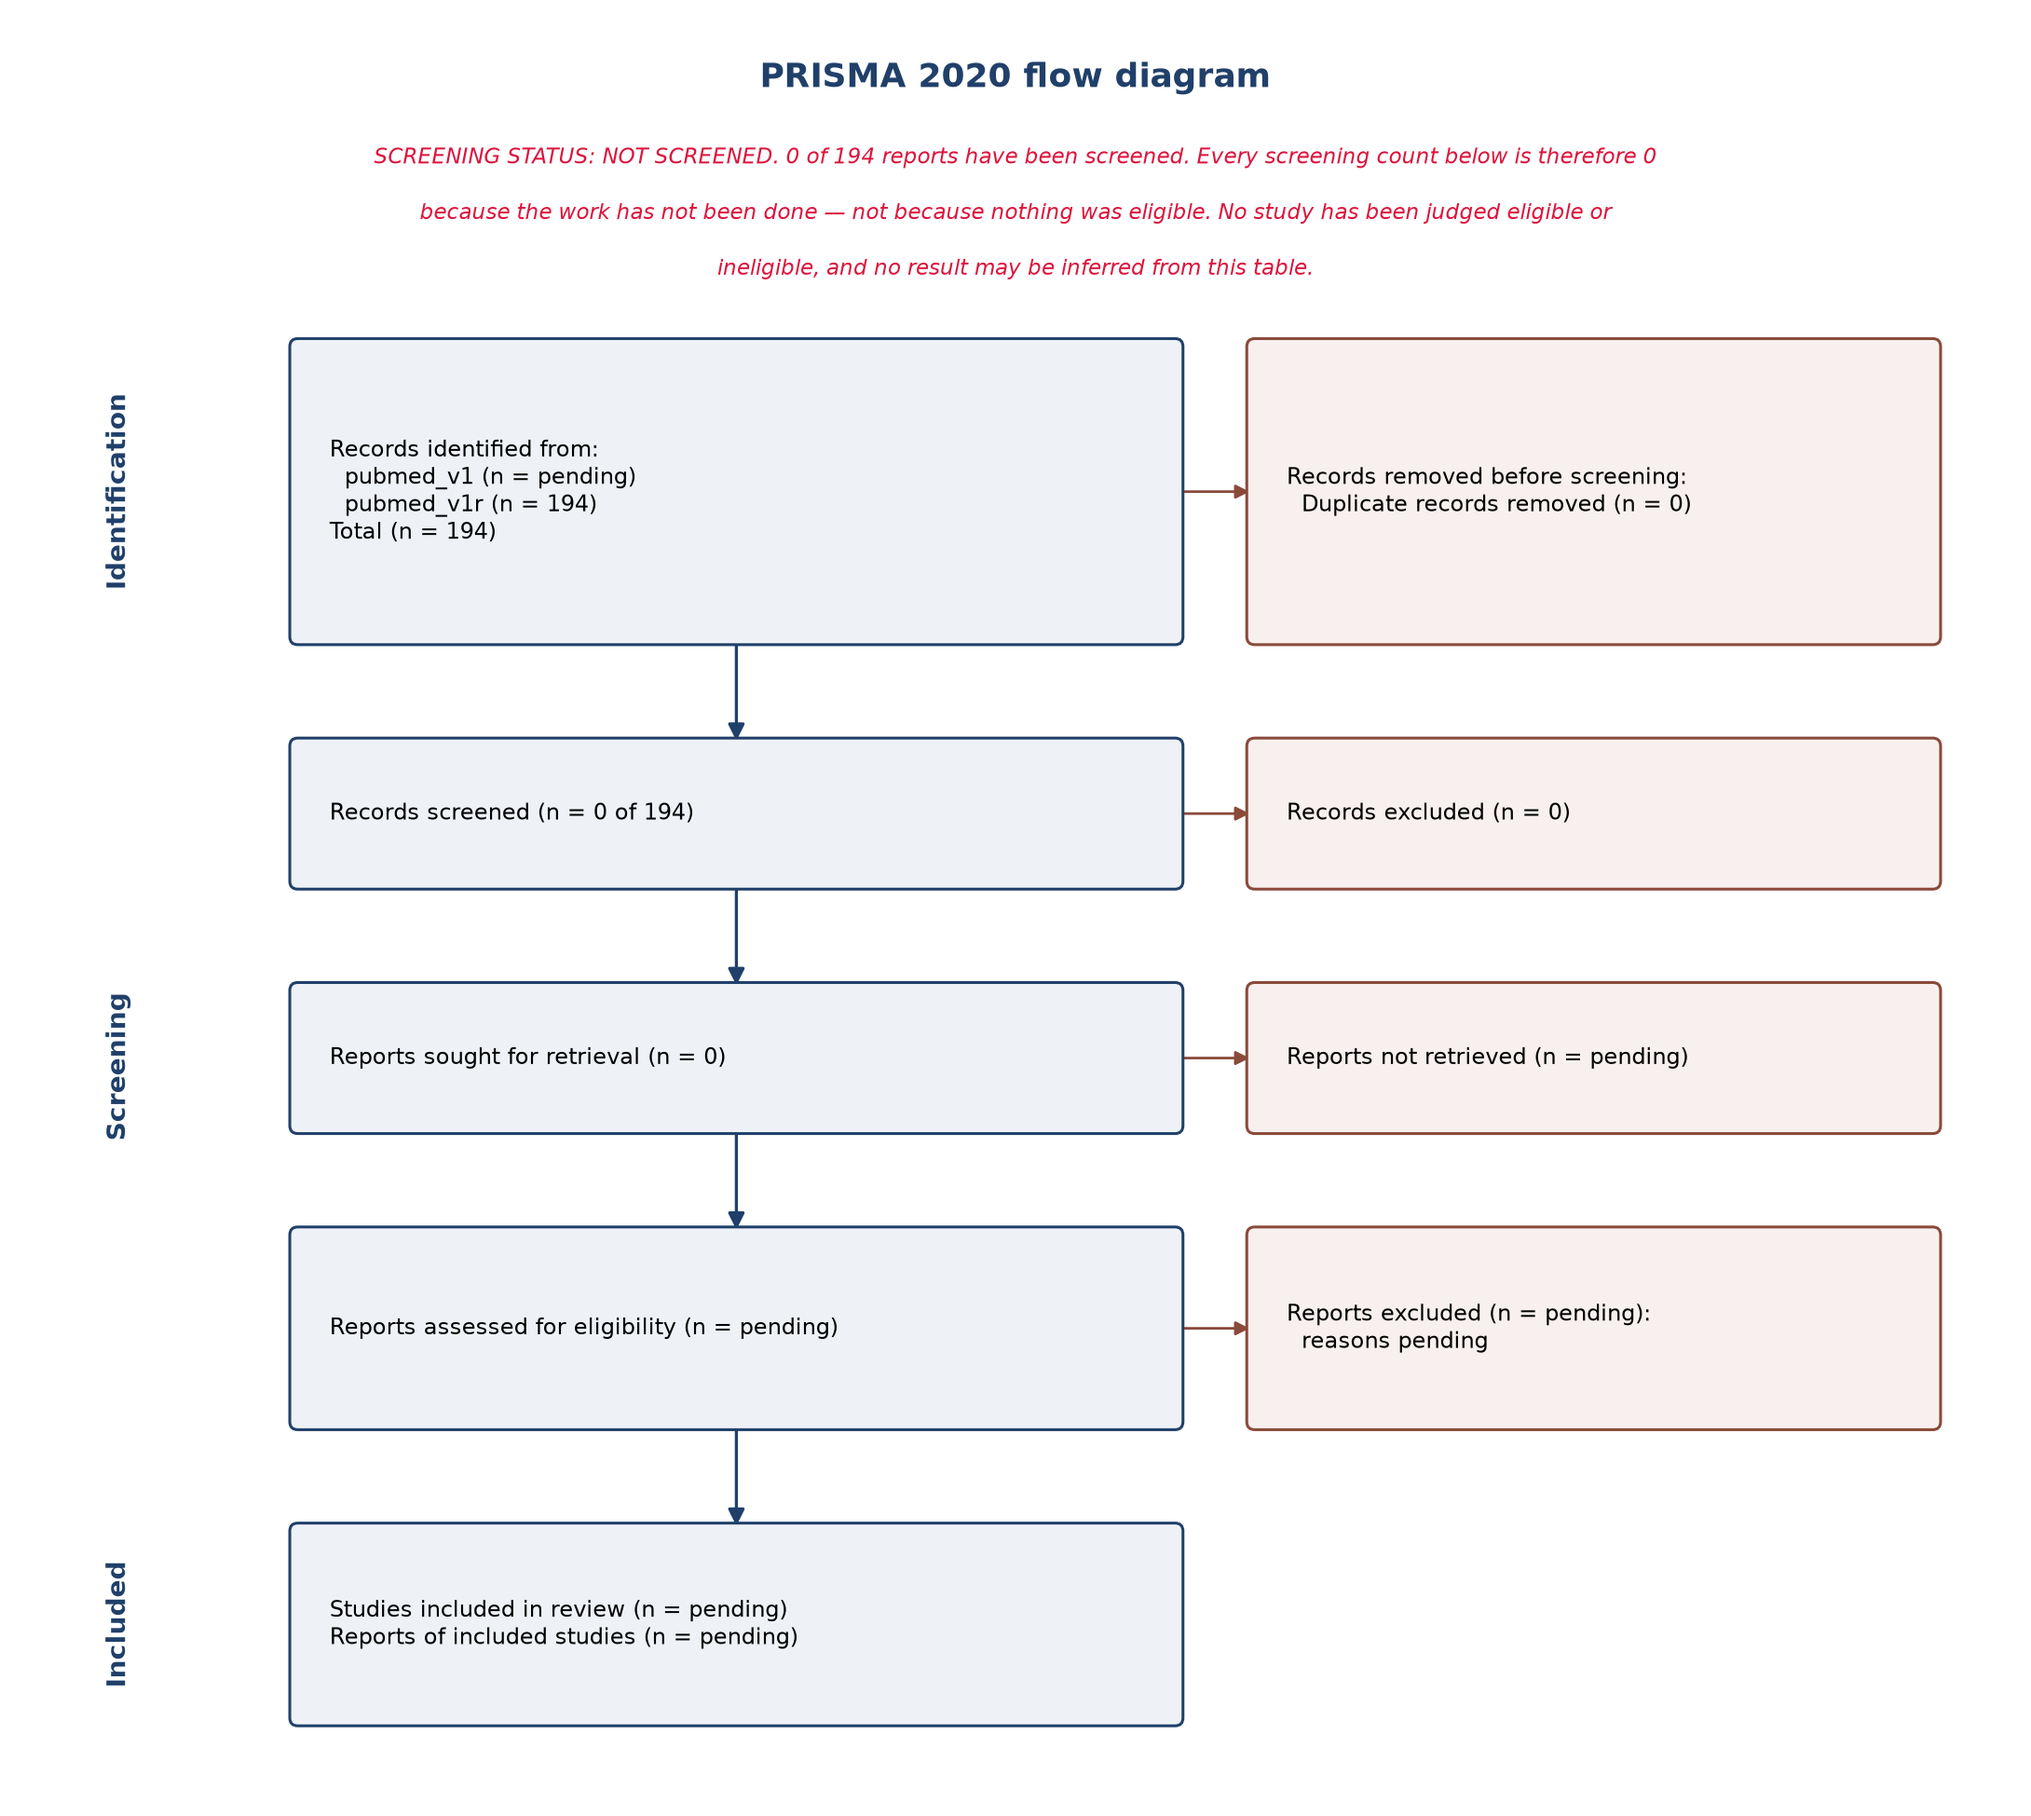
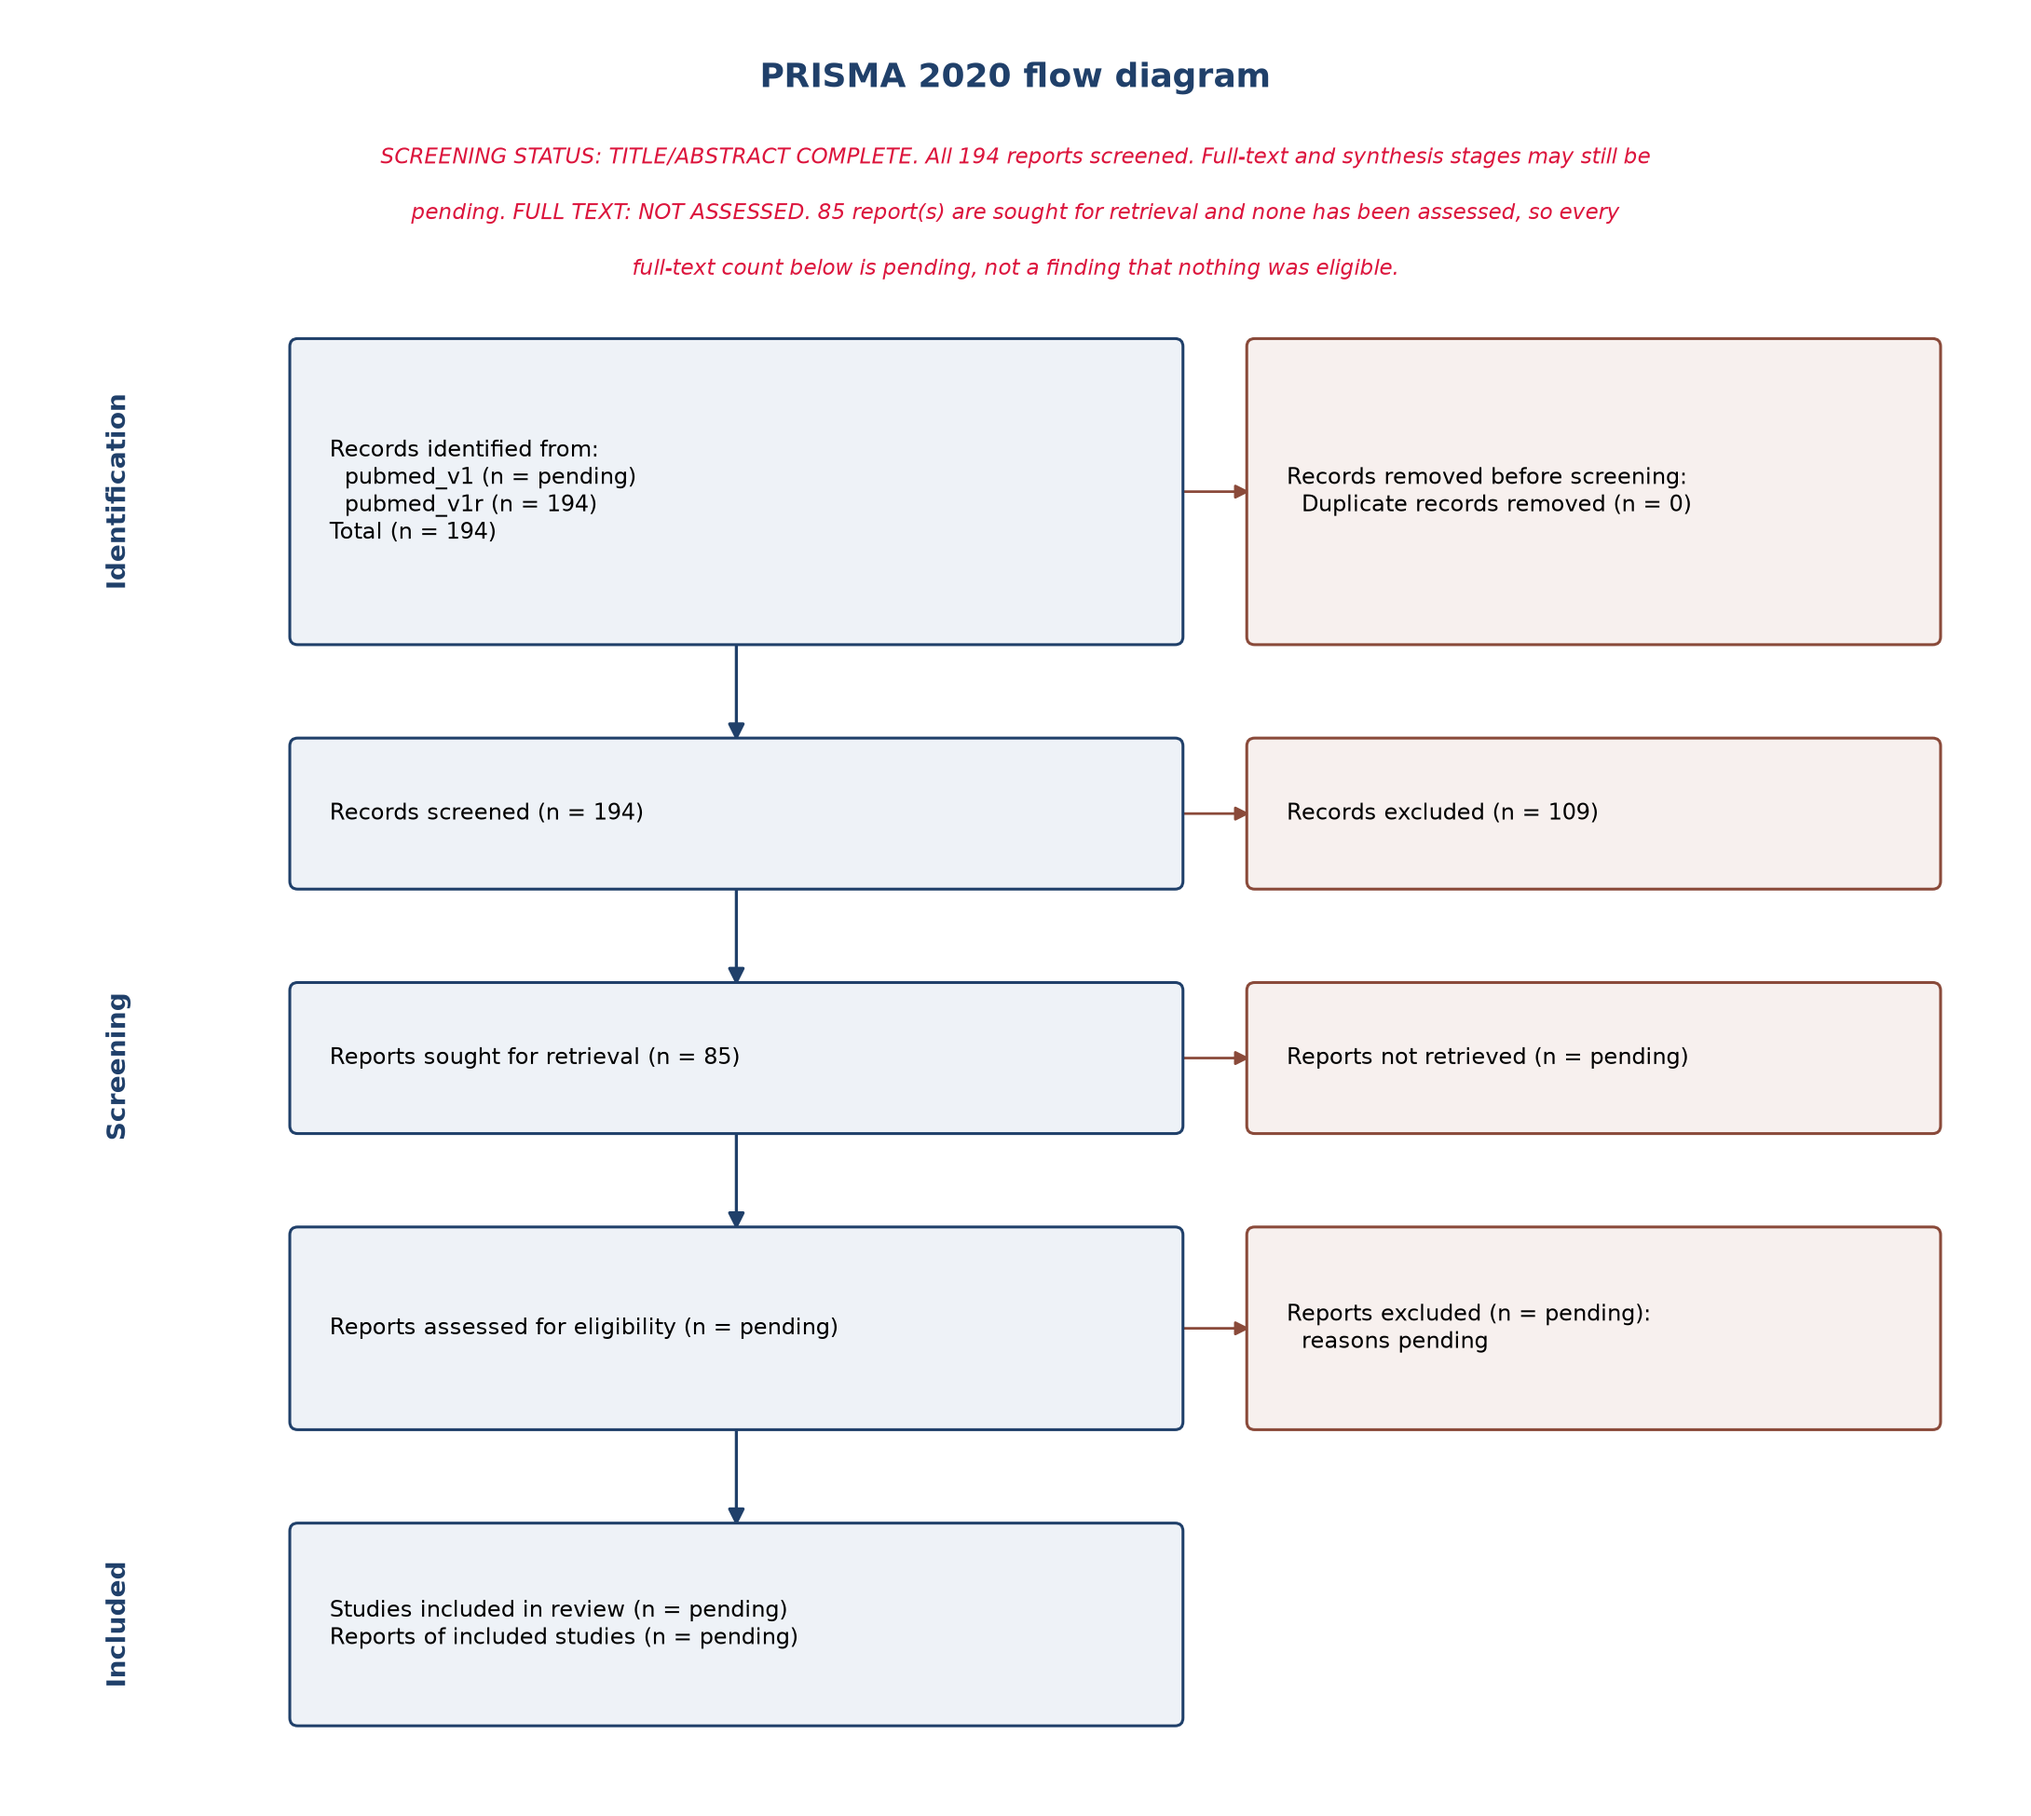
Build the full-text worksheet from the 85 title/abstract includes
data/screening/screening_ft.csv carries one row per report taken forward,
with every reviewer field empty: full_text_status, full_text_source,
decision, reason_code, reviewer, screened_date and notes. Provenance was
re-verified before the build and the raw checksum gate passed. The file is
tracked, like the title/abstract worksheet, because retrieval statuses and
eligibility decisions cannot be regenerated from anything.

validate_screening --stage ft reports 0 errors and the status INCOMPLETE,
with the single warning that 85 of 85 reports are not yet screened.

The regenerated PRISMA counts and figure now read "reports sought for
retrieval: 85" with every downstream full-text count pending, and carry
the banner stating that the stage has not been assessed. Nothing here
asserts that any report has been retrieved, assessed or judged eligible.

Changed region(s): [[0.1872, 0.0616, 0.811, 0.1539], [0.2807, 0.431, 0.3431, 0.4618]]

diff --git a/results/validation/prisma_counts.md b/results/validation/prisma_counts.md
@@ -4,7 +4,7 @@ Generated by `scripts/screening/prisma.py` from the datasets present. `<pending>
 
 **Reconciles: yes**
 
-> **SCREENING STATUS: TITLE/ABSTRACT COMPLETE.** All 194 reports screened. Full-text and synthesis stages may still be pending.
+> **SCREENING STATUS: TITLE/ABSTRACT COMPLETE.** All 194 reports screened. Full-text and synthesis stages may still be pending. **FULL TEXT: NOT ASSESSED.** 85 report(s) are sought for retrieval and none has been assessed, so every full-text count below is pending, **not** a finding that nothing was eligible.
 
 ## Identification
 
@@ -40,7 +40,8 @@ Generated by `scripts/screening/prisma.py` from the datasets present. `<pending>
 
 | Item | Count |
 |---|---|
-| Reports sought for retrieval | <pending> |
+| Reports sought for retrieval | 85 |
+| … not yet assessed | 85 |
 | Reports not retrieved | <pending> |
 | Reports assessed for eligibility | <pending> |
 | Reports excluded | <pending> |

diff --git a/results/validation/screening_ft_validation.md b/results/validation/screening_ft_validation.md
@@ -1,0 +1,21 @@
+# Screening validation — full text
+
+**Status: INCOMPLETE**
+
+Decisions are the human reviewer's; this report checks their internal consistency and completeness only (D010).
+
+## Errors (0)
+
+
+## Warnings (1)
+
+- 85 of 85 report(s) not yet screened
+
+## Counts (6)
+
+- reports in worksheet: 85
+- include: 0
+- exclude: 0
+- unresolved: 0
+- unscreened: 85
+-   full text not recorded: 85
